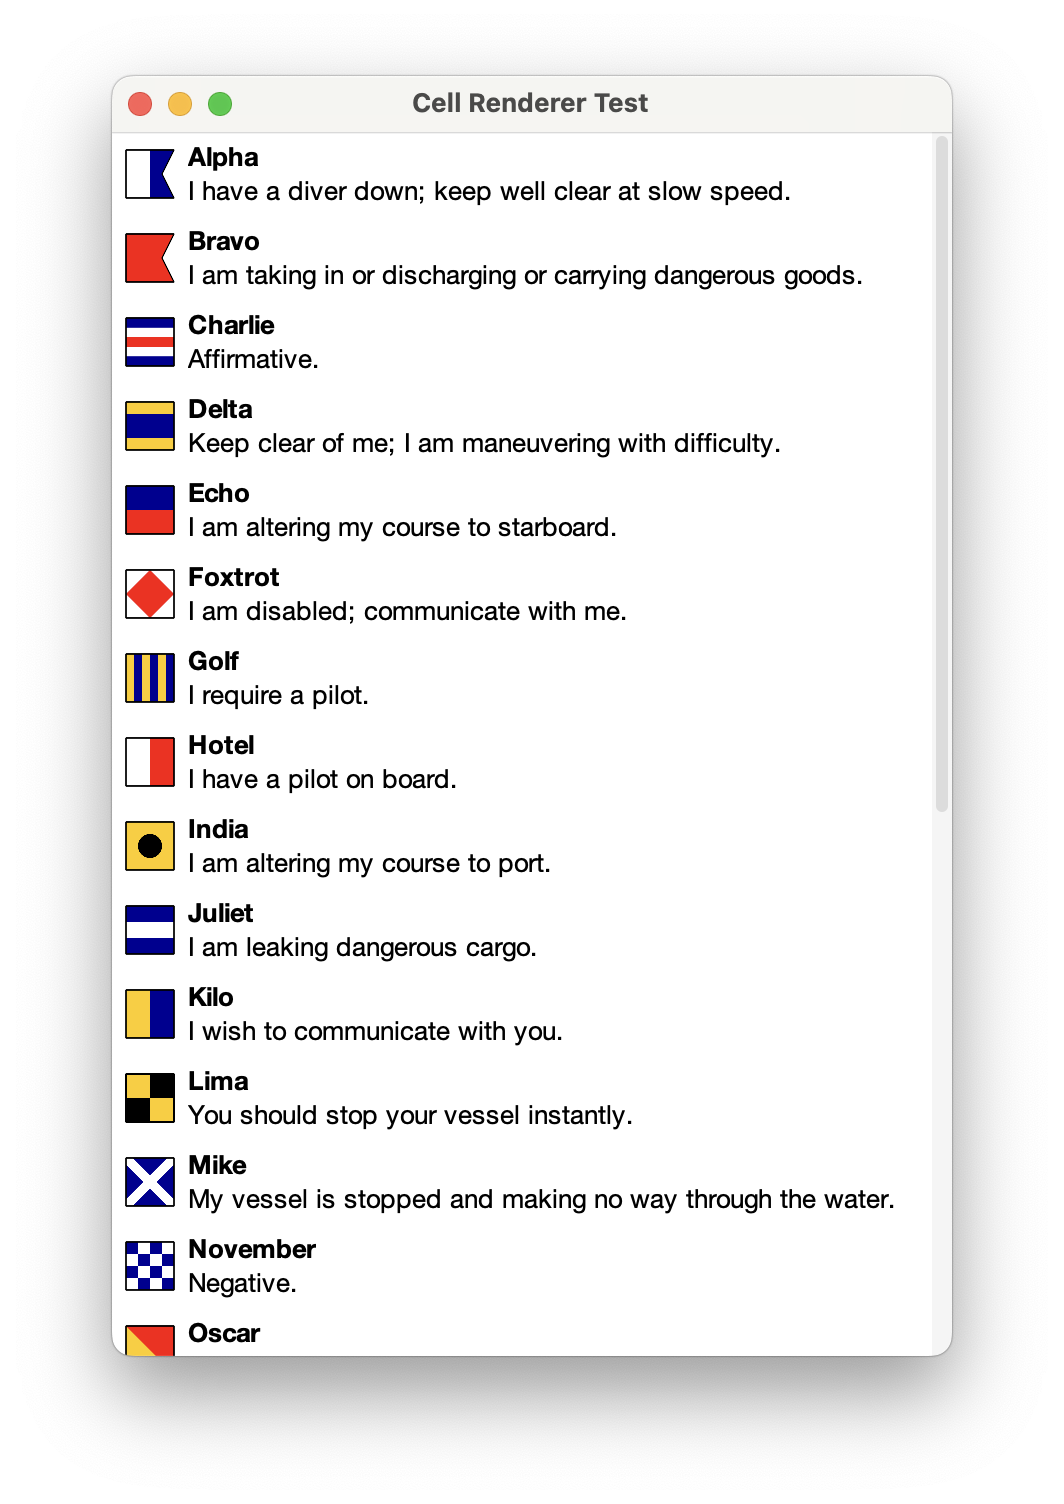
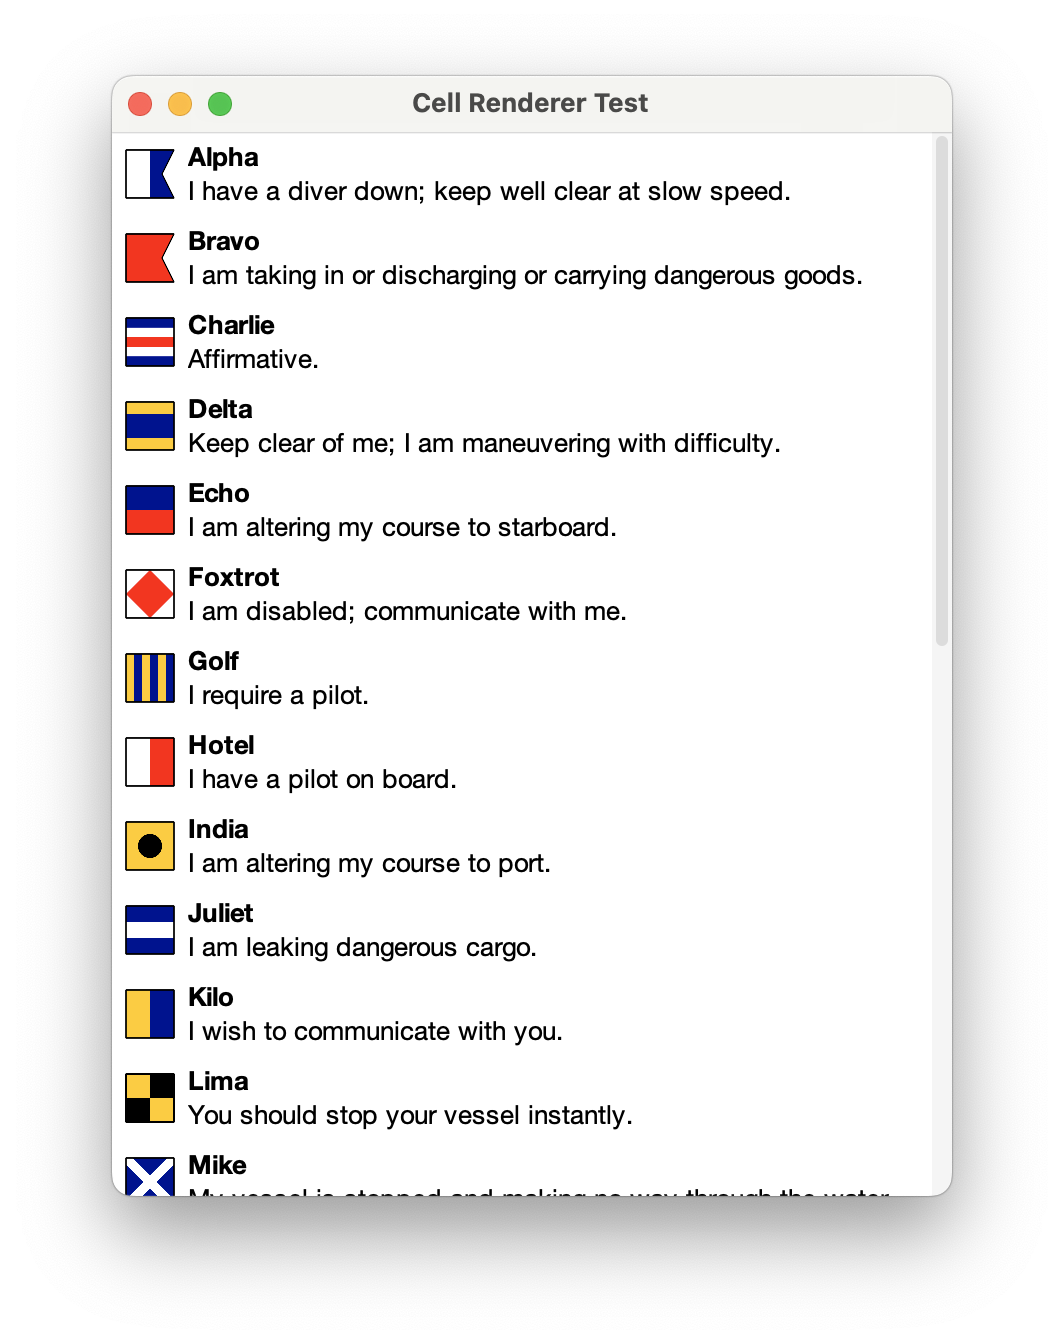
Add support for text field properties.

Changed region(s): [[0.093, 0.0625, 0.8994, 0.9062], [0.3722, 0.0625, 0.6203, 0.0938], [0.8684, 0.4688, 0.8994, 0.5312]]

diff --git a/sierra/src/main/java/org/httprpc/sierra/UILoader.java b/sierra/src/main/java/org/httprpc/sierra/UILoader.java
@@ -212,6 +212,11 @@ public class UILoader {
                     }
                 }
 
+                if (type == JTextField.class) {
+                    appendAttributeDeclaration(PLACEHOLDER_TEXT, CDATA, writer);
+                    appendAttributeDeclaration(SHOW_CLEAR_BUTTON, String.format("(%b|%b)", true, false), writer);
+                }
+
                 endEntityDeclaration(writer);
 
                 var tag = tags.get(type);
@@ -300,6 +305,9 @@ public class UILoader {
     private static final String STYLE_CLASS = "styleClass";
 
     private static final String FLAT_LAF_PREFIX = "FlatLaf";
+
+    private static final String PLACEHOLDER_TEXT = "placeholderText";
+    private static final String SHOW_CLEAR_BUTTON = "showClearButton";
 
     private static final String HORIZONTAL_ALIGNMENT = "horizontalAlignment";
     private static final String VERTICAL_ALIGNMENT = "verticalAlignment";
@@ -486,6 +494,25 @@ public class UILoader {
                 component.setPreferredSize(parseSize(value));
             } else if (name.equals(STYLE) || name.equals(STYLE_CLASS)) {
                 component.putClientProperty(String.format("%s.%s", FLAT_LAF_PREFIX, name), value);
+            } else if (name.equals(PLACEHOLDER_TEXT)) {
+                if (!(component instanceof JTextField)) {
+                    throw new UnsupportedOperationException("Component is not a text field.");
+                }
+
+                String placeholderText;
+                if (resourceBundle == null) {
+                    placeholderText = value;
+                } else {
+                    placeholderText = resourceBundle.getString(value);
+                }
+
+                component.putClientProperty(String.format("%s.%s", JTextField.class.getSimpleName(), name), placeholderText);
+            } else if (name.equals(SHOW_CLEAR_BUTTON)) {
+                if (!(component instanceof JTextField)) {
+                    throw new UnsupportedOperationException("Component is not a text field.");
+                }
+
+                component.putClientProperty(String.format("%s.%s", JTextField.class.getSimpleName(), name), Boolean.valueOf(value));
             } else {
                 var mutator = map(properties.get(tag).get(name), BeanAdapter.Property::getMutator);
 

diff --git a/sierra-test/src/main/java/org/httprpc/sierra/test/TextFieldTest.java b/sierra-test/src/main/java/org/httprpc/sierra/test/TextFieldTest.java
@@ -1,0 +1,46 @@
+/*
+ * Licensed under the Apache License, Version 2.0 (the "License");
+ * you may not use this file except in compliance with the License.
+ * You may obtain a copy of the License at
+ *
+ *    http://www.apache.org/licenses/LICENSE-2.0
+ *
+ * Unless required by applicable law or agreed to in writing, software
+ * distributed under the License is distributed on an "AS IS" BASIS,
+ * WITHOUT WARRANTIES OR CONDITIONS OF ANY KIND, either express or implied.
+ * See the License for the specific language governing permissions and
+ * limitations under the License.
+ */
+
+package org.httprpc.sierra.test;
+
+import com.formdev.flatlaf.FlatLightLaf;
+import org.httprpc.sierra.UILoader;
+
+import javax.swing.JFrame;
+import javax.swing.SwingUtilities;
+import java.util.ResourceBundle;
+
+public class TextFieldTest extends JFrame implements Runnable {
+    private static final ResourceBundle resourceBundle = ResourceBundle.getBundle(TextFieldTest.class.getName());
+
+    private TextFieldTest() {
+        super(resourceBundle.getString("title"));
+
+        setDefaultCloseOperation(EXIT_ON_CLOSE);
+    }
+
+    @Override
+    public void run() {
+        setContentPane(UILoader.load(this, "text-field-test.xml", resourceBundle));
+
+        pack();
+        setVisible(true);
+    }
+
+    public static void main(String[] args) {
+        FlatLightLaf.setup();
+
+        SwingUtilities.invokeLater(new TextFieldTest());
+    }
+}

diff --git a/sierra-test/src/main/java/org/httprpc/sierra/test/CellRendererTest.java b/sierra-test/src/main/java/org/httprpc/sierra/test/CellRendererTest.java
@@ -134,7 +134,7 @@ public class CellRendererTest extends JFrame implements Runnable {
 
         setContentPane(scrollPane);
 
-        setSize(420, 640);
+        setSize(420, 560);
         setVisible(true);
     }
 

diff --git a/README.md b/README.md
@@ -163,7 +163,7 @@ Size values for multiple dimensions can be specified in _width_, _height_ order:
 size="20, 20"
 ```
 
-### Styles and Style Classes
+### FlatLaf Client Properties
 FlatLaf style and [style class](https://www.formdev.com/flatlaf/typography/) values can be specified via the "style" and "styleClass" attributes, respectively. For example, this markup applies the "h2" style class to a `JLabel` instance used by a list cell renderer:
 
 ```xml
@@ -178,6 +178,17 @@ FlatLaf style and [style class](https://www.formdev.com/flatlaf/typography/) val
 ```
 
 <img src="README/cell-renderer.png" width="532px"/>
+
+Several FlatLaf text field [properties](https://www.formdev.com/flatlaf/client-properties/#JTextField) are also supported. For example: 
+
+```xml
+<column-panel spacing="4" padding="8">
+    <text-field columns="16" placeholderText="firstName" showClearButton="true"/>
+    <text-field columns="16" placeholderText="lastName" showClearButton="true"/>
+</column-panel>
+```
+
+<img src="README/text-fields.png" width="318px"/>
 
 ### Button Groups
 The "group" attribute associates a button with a button group. For example, the following markup creates two radio buttons belonging to the "orientation" group:
